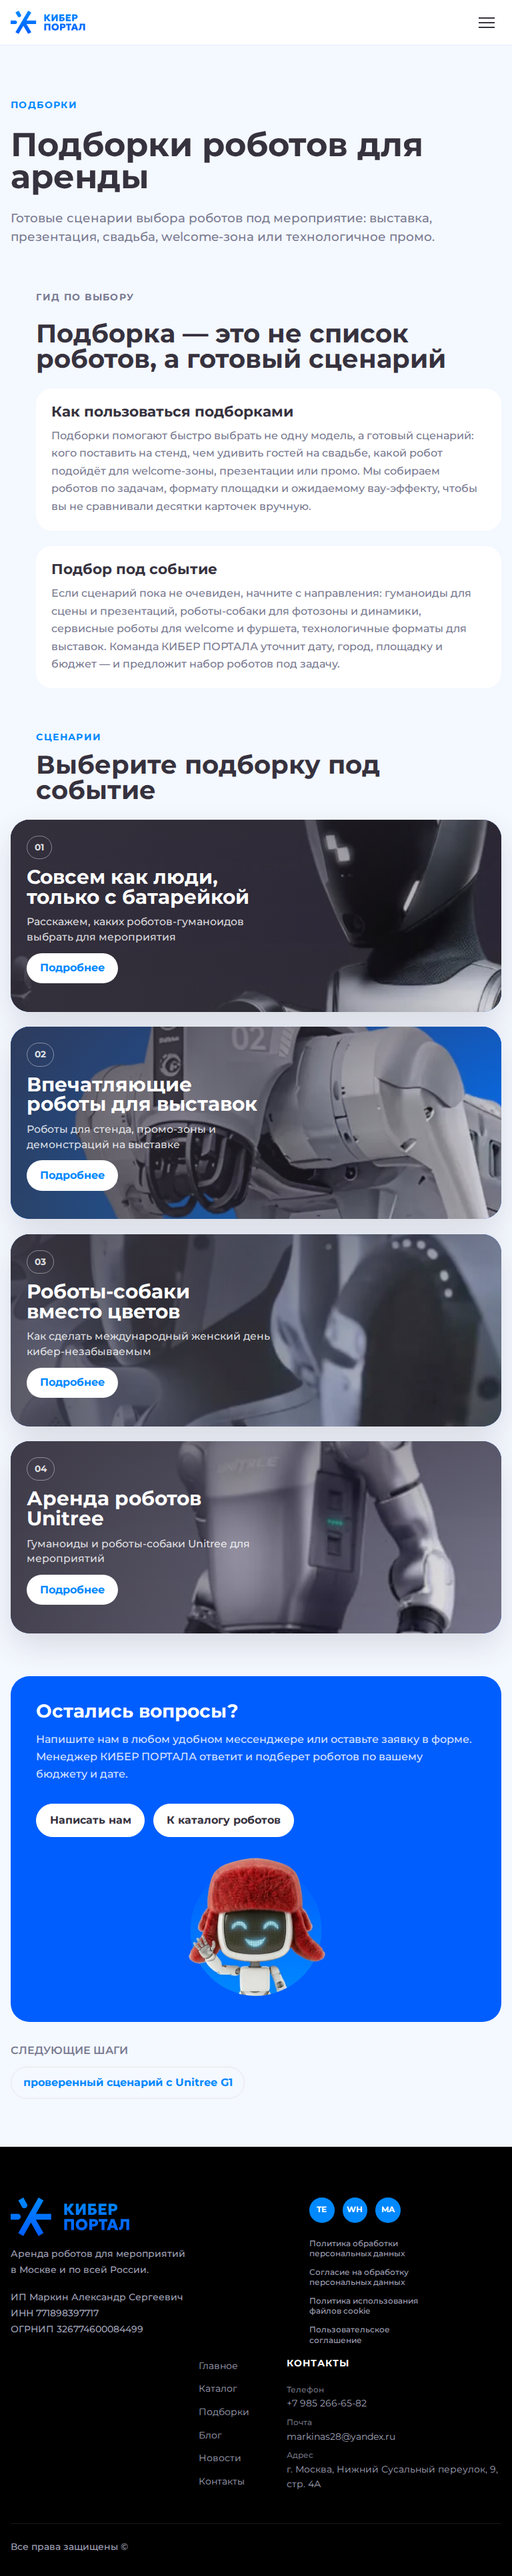
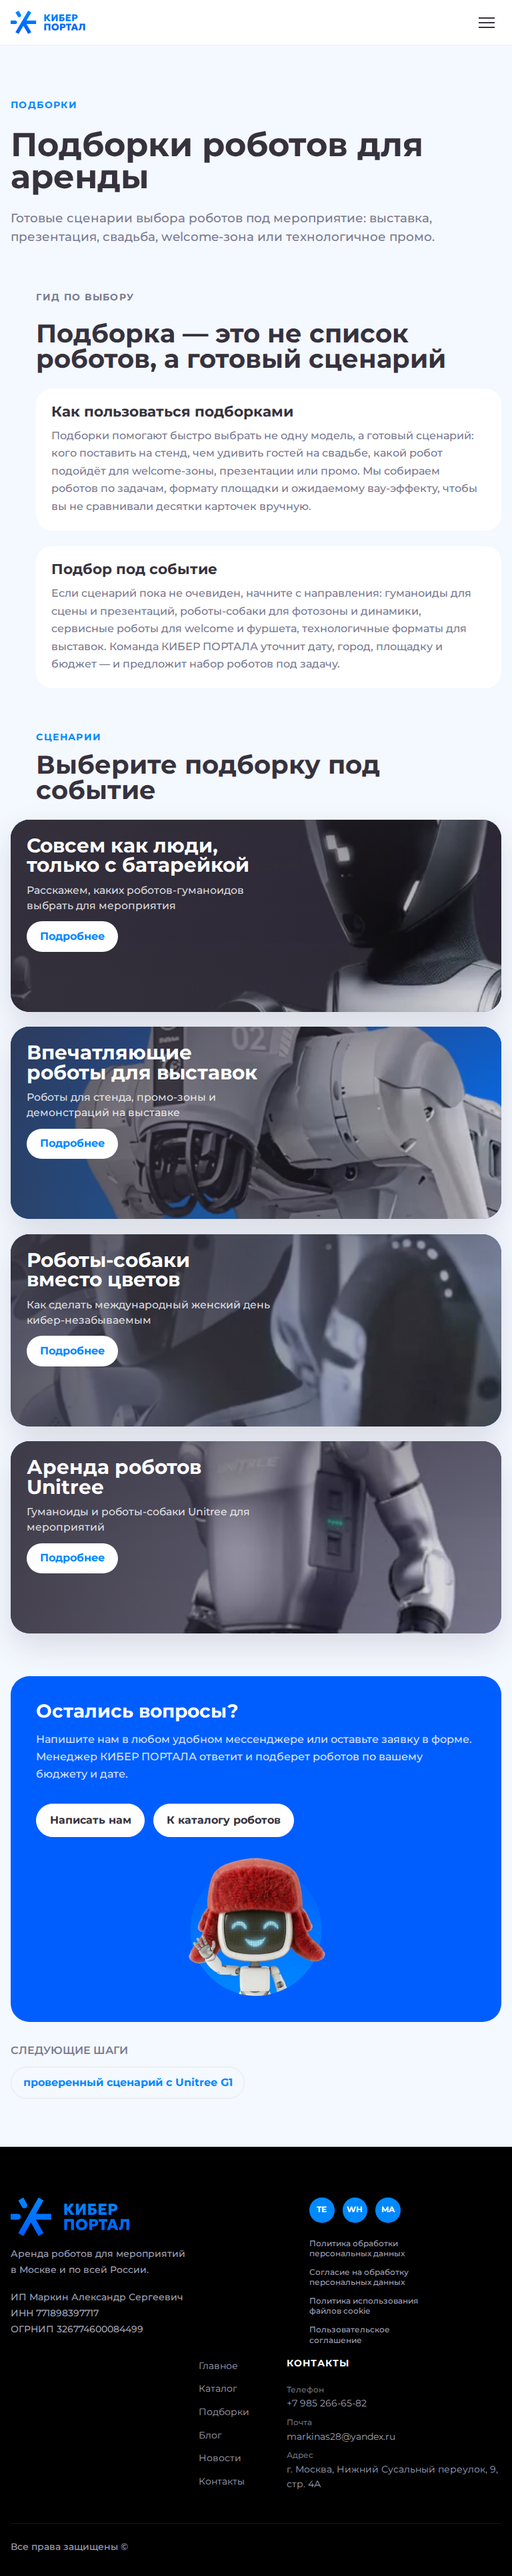
fix: remove compilations card numbering

Changed region(s): [[0.0312, 0.311, 0.5, 0.6219], [0.4375, 0.4975, 0.5, 0.5286]]

diff --git a/tests/visual/compilations-index-page.test.ts b/tests/visual/compilations-index-page.test.ts
@@ -15,6 +15,8 @@ test('KIBER-91 compilations index is not a placeholder page', () => {
   assert.match(page, /id=\{card\.id\}/);
   assert.match(page, /class="compilations-page__grid"/);
   assert.match(page, /class="compilations-page__card"/);
+  assert.doesNotMatch(page, /compilations-page__card-index/);
+  assert.doesNotMatch(page, />0\{index \+ 1\}</);
   assert.match(page, /Подборка — это не список роботов, а готовый сценарий/);
   assert.match(page, /<HomeFinalCta \{\.\.\.homeFinalCta\} \/>/);
   assert.match(page, /compilations-page__hero[\s\S]*compilations-page__text[\s\S]*compilations-page__cards[\s\S]*compilations-page__cta/);
